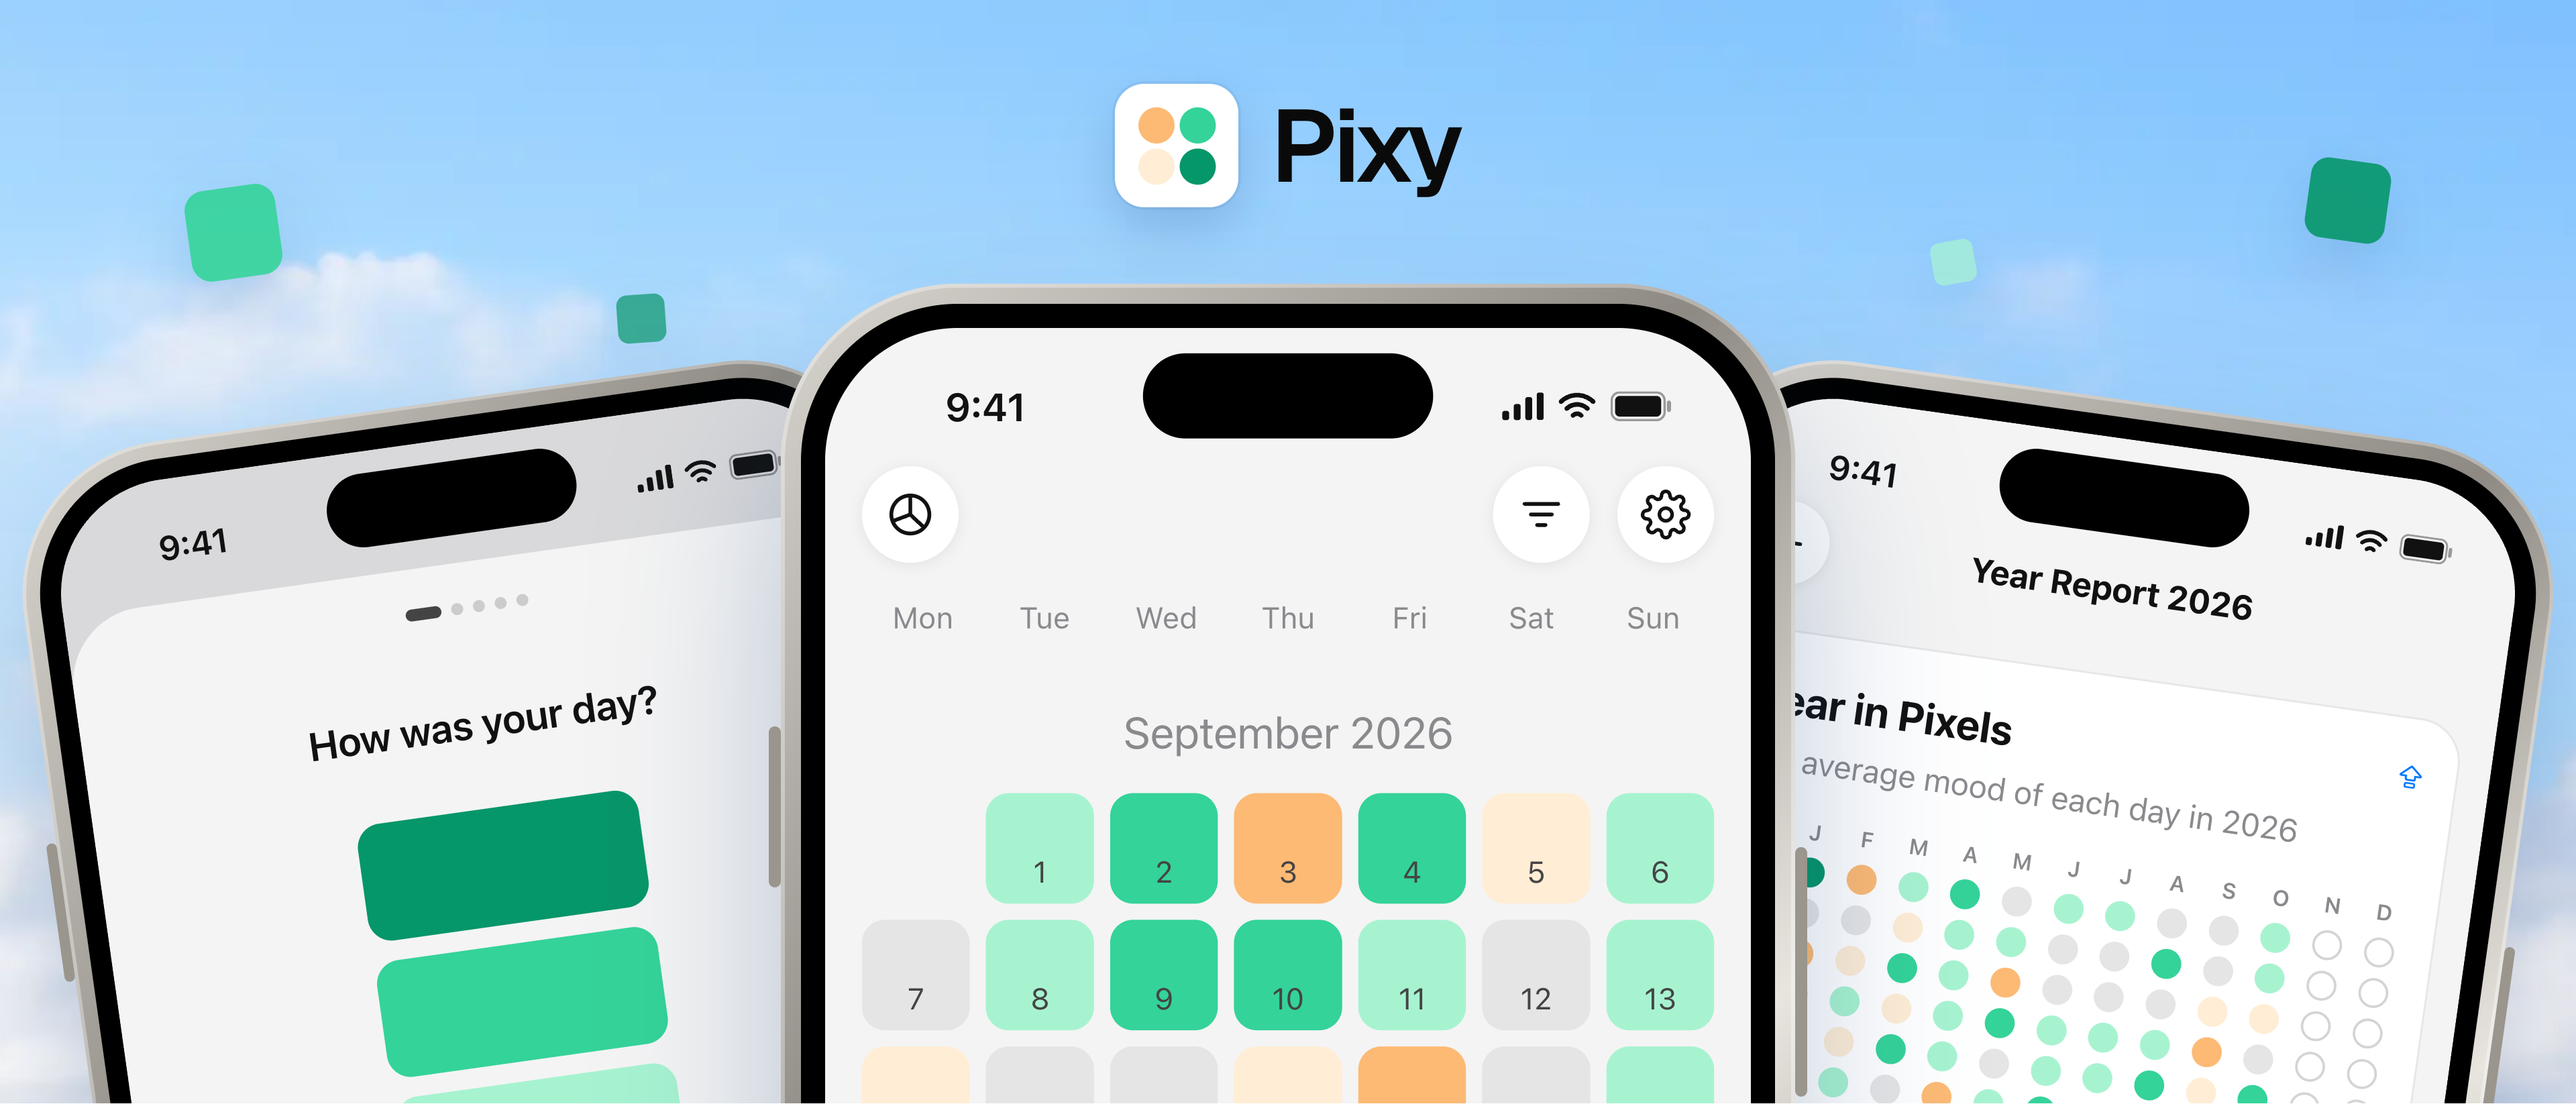
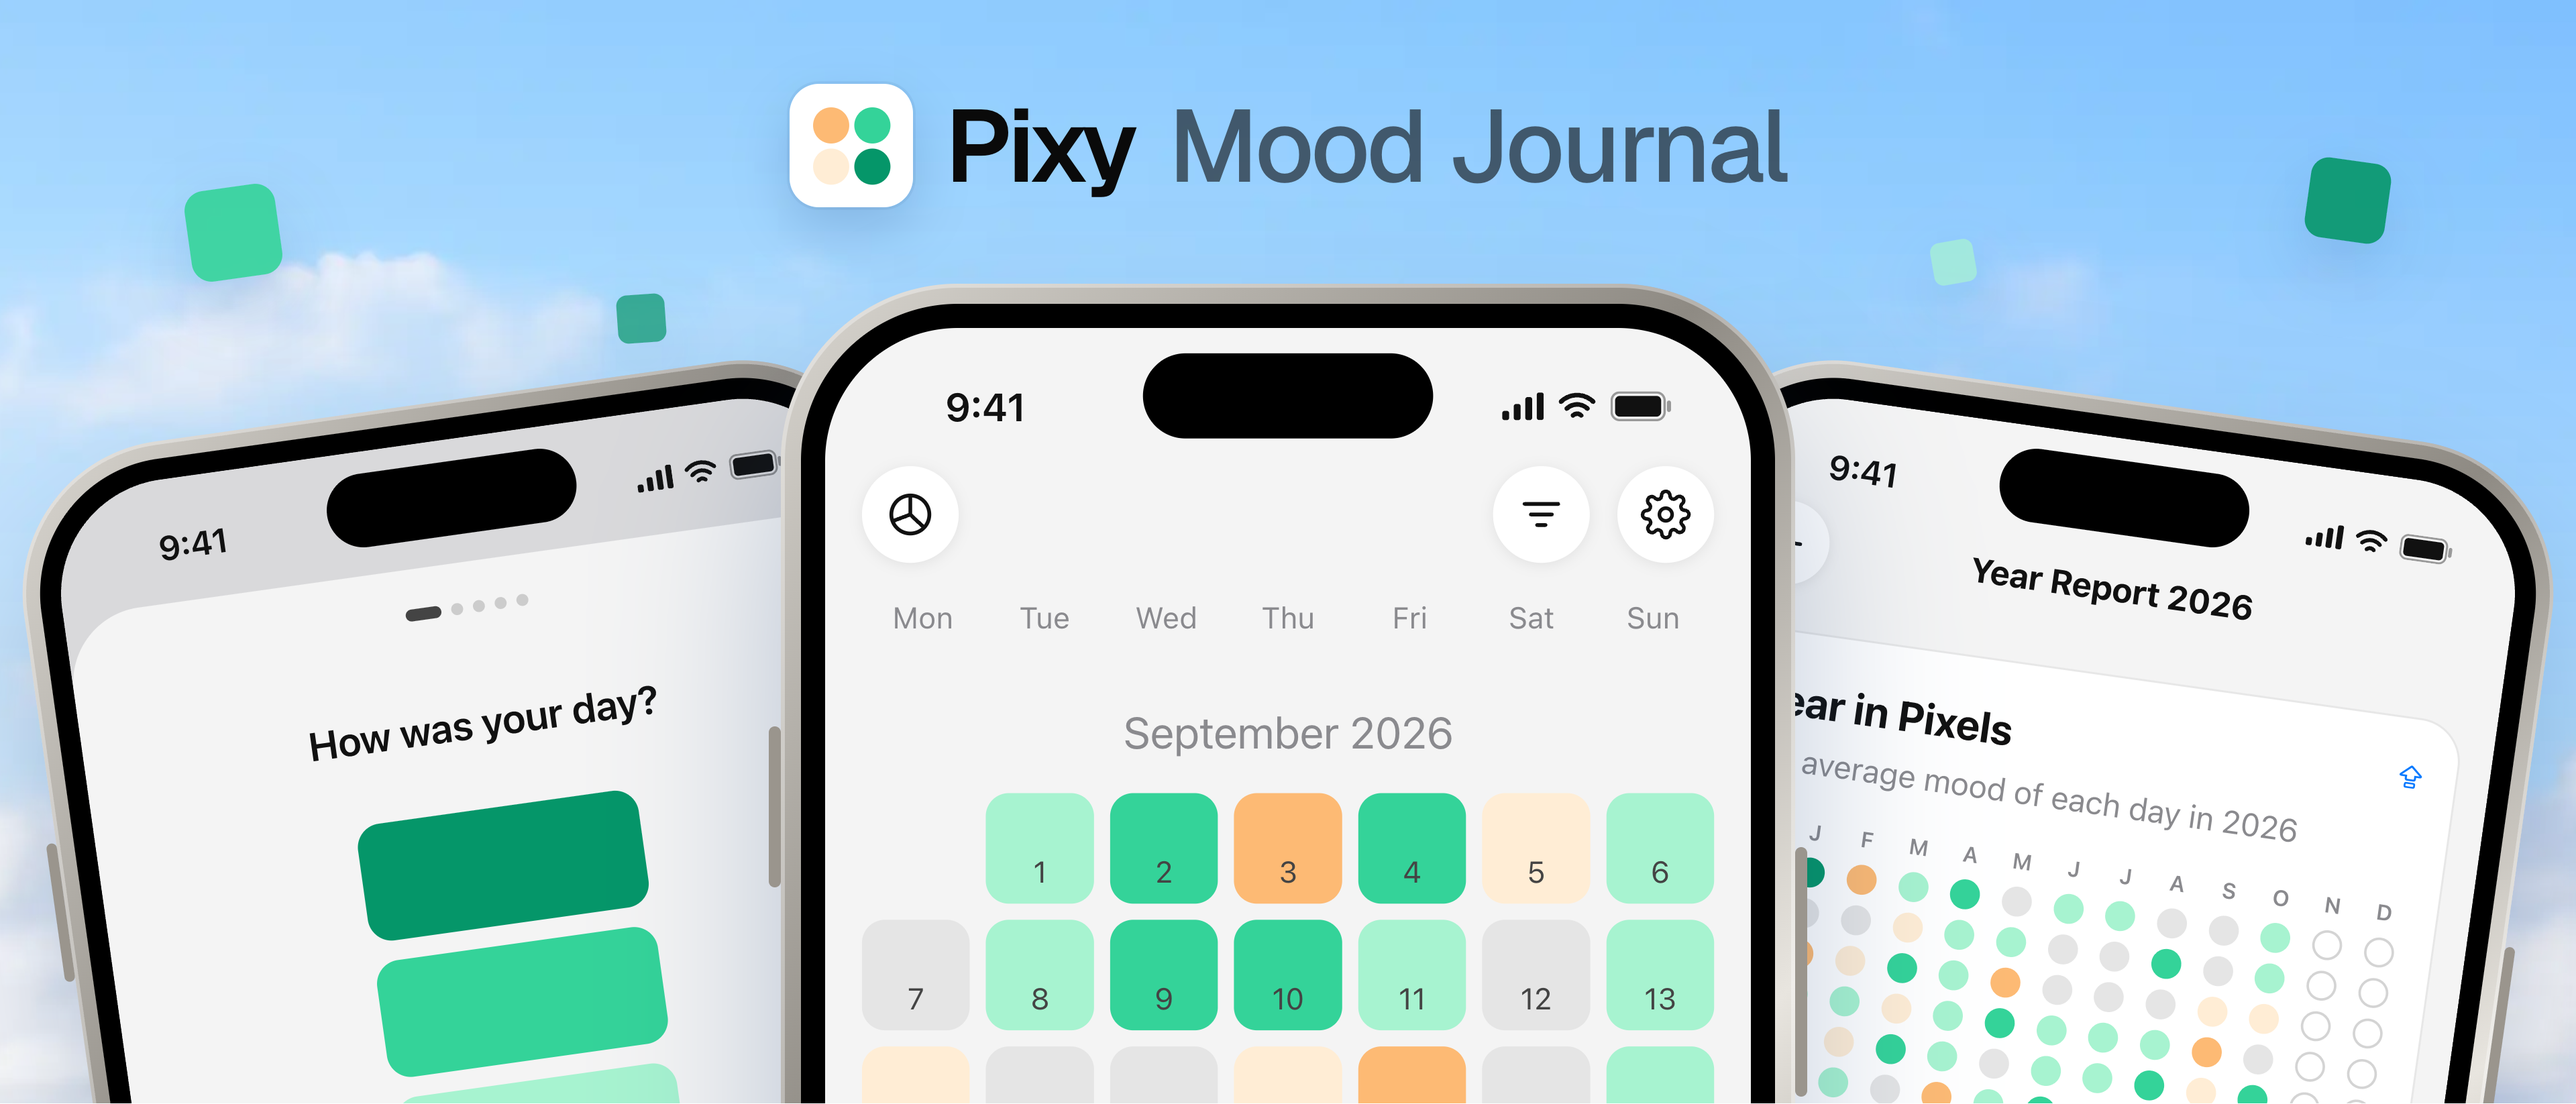
docs(store-screenshots): add Pixy Mood Journal lockup to store creatives

Changed region(s): [[0.2812, 0.062, 0.7188, 0.2169]]

diff --git a/docs/store-screenshots/index.html b/docs/store-screenshots/index.html
@@ -154,6 +154,9 @@ radial-gradient(1.4px 1.4px at 18% 10%,#fff,transparent),radial-gradient(1px 1px
 .cv .brand{position:absolute;z-index:3;left:0;right:0;top:26px;display:flex;justify-content:center;align-items:center;gap:12px}
 .cv .brand svg{width:46px;height:46px;border-radius:11px;box-shadow:0 0 0 1px rgba(10,40,90,.06),0 8px 20px rgba(20,60,120,.2)}
 .cv .brand b{font-size:38px;font-weight:600;letter-spacing:-.03em}
+.cv .brand span{font-size:38px;font-weight:500;letter-spacing:-.03em;color:rgba(10,10,10,.6)}
+.cv h4.ih{display:flex;justify-content:center;align-items:center;gap:18px}.cv h4.ih svg{width:66px;height:66px;border-radius:16px;box-shadow:0 0 0 1px rgba(10,40,90,.06),0 8px 20px rgba(20,60,120,.2)}
+.cv .brand.fb{left:52px;right:auto;top:84px;justify-content:flex-start;gap:10px}.cv .brand.fb svg{width:40px;height:40px;border-radius:10px}.cv .brand.fb b,.cv .brand.fb span{font-size:30px}
 .px{position:absolute;border-radius:22%;box-shadow:0 10px 24px rgba(20,60,120,.18)}
 </style></head><body><main>
 <h1>Pixy store screenshots</h1>
@@ -212,27 +215,27 @@ radial-gradient(1.4px 1.4px at 18% 10%,#fff,transparent),radial-gradient(1px 1px
 <div class="cvset">
  <div><div class="cv header" data-cv="header">
   <i class="px" style="left:70px;top:70px;width:34px;height:34px;background:#34d399;opacity:0.9;transform:rotate(-8deg)"></i><i class="px" style="left:150px;top:210px;width:22px;height:22px;background:#a7f3d0;opacity:0.85;transform:rotate(6deg)"></i><i class="px" style="left:40px;top:270px;width:26px;height:26px;background:#fdba74;opacity:0.8;transform:rotate(10deg)"></i><i class="px" style="left:230px;top:110px;width:18px;height:18px;background:#059669;opacity:0.7;transform:rotate(-4deg)"></i><i class="px" style="left:860px;top:60px;width:30px;height:30px;background:#059669;opacity:0.9;transform:rotate(8deg)"></i><i class="px" style="left:790px;top:200px;width:24px;height:24px;background:#ffedd5;opacity:0.85;transform:rotate(-6deg)"></i><i class="px" style="left:890px;top:280px;width:20px;height:20px;background:#34d399;opacity:0.8;transform:rotate(4deg)"></i><i class="px" style="left:720px;top:90px;width:16px;height:16px;background:#a7f3d0;opacity:0.7;transform:rotate(-10deg)"></i>
-  <div class="brand"><svg viewBox="0 0 1024 1024"><rect width="1024" height="1024" fill="#fff"/><circle cx="345" cy="345" r="150" fill="#fdba74"/><circle cx="687" cy="345" r="150" fill="#34d399"/><circle cx="345" cy="687" r="150" fill="#ffedd5"/><circle cx="687" cy="687" r="150" fill="#059669"/></svg><b>Pixy</b></div>
+  <div class="brand"><svg viewBox="0 0 1024 1024"><rect width="1024" height="1024" fill="#fff"/><circle cx="345" cy="345" r="150" fill="#fdba74"/><circle cx="687" cy="345" r="150" fill="#34d399"/><circle cx="345" cy="687" r="150" fill="#ffedd5"/><circle cx="687" cy="687" r="150" fill="#059669"/></svg><b>Pixy</b><span>Mood Journal</span></div>
   <div class="phA" style="top:150px;left:17%;transform:translateX(-50%) rotate(-8deg) scale(1.3);z-index:1;"><div class="bz"><div class="sc" data-app="mood" data-args=''></div></div></div>
   <div class="phA" style="top:150px;left:83%;transform:translateX(-50%) rotate(8deg) scale(1.3);z-index:1;"><div class="bz"><div class="sc" data-app="year" data-args=''></div></div></div>
   <div class="phA" style="top:106px;transform:translateX(-50%) scale(1.5);z-index:2;"><div class="bz"><div class="sc" data-app="calendar" data-args=''></div></div></div>
- </div><div class="lab"><b>Product page header</b> 21:9, 3840x1646. Pixy icon + name on top, phones pushed down. Calendar in front, mood logger and year in pixels behind, phones run off the bottom edge.</div></div>
+ </div><div class="lab"><b>Product page header</b> 21:9, 3840x1646. Pixy icon + "Pixy Mood Journal" on top, phones pushed down. Calendar in front, mood logger and year in pixels behind, phones run off the bottom edge.</div></div>
  <div><div class="cv search" data-cv="search">
-  <h4 style="top:30px;font-size:68px">Mood Journal</h4>
-  <div class="sub" style="top:112px;font-size:28px;font-weight:500">Log how you feel. See what shapes it.</div>
-  <div class="phA" style="top:214px;left:17%;transform:translateX(-50%) rotate(-8deg) scale(1.3);z-index:1;"><div class="bz"><div class="sc" data-app="mood" data-args=''></div></div></div>
-  <div class="phA" style="top:214px;left:83%;transform:translateX(-50%) rotate(8deg) scale(1.3);z-index:1;"><div class="bz"><div class="sc" data-app="emotions" data-args=''></div></div></div>
-  <div class="phA" style="top:176px;transform:translateX(-50%) scale(1.5);z-index:2;"><div class="bz"><div class="sc" data-app="calendar" data-args=''></div></div></div>
+  <h4 class="ih" style="top:30px;font-size:68px"><svg viewBox="0 0 1024 1024"><rect width="1024" height="1024" fill="#fff"/><circle cx="345" cy="345" r="150" fill="#fdba74"/><circle cx="687" cy="345" r="150" fill="#34d399"/><circle cx="345" cy="687" r="150" fill="#ffedd5"/><circle cx="687" cy="687" r="150" fill="#059669"/></svg>Mood Journal</h4>
+  <div class="sub" style="top:106px;font-size:28px;font-weight:500">Log how you feel. See what shapes it.</div>
+  <div class="phA" style="top:232px;left:17%;transform:translateX(-50%) rotate(-8deg) scale(1.3);z-index:1;"><div class="bz"><div class="sc" data-app="mood" data-args=''></div></div></div>
+  <div class="phA" style="top:232px;left:83%;transform:translateX(-50%) rotate(8deg) scale(1.3);z-index:1;"><div class="bz"><div class="sc" data-app="emotions" data-args=''></div></div></div>
+  <div class="phA" style="top:194px;transform:translateX(-50%) scale(1.5);z-index:2;"><div class="bz"><div class="sc" data-app="calendar" data-args=''></div></div></div>
  </div><div class="lab"><b>Search results</b> 3:2, 3840x2560. Replaces the first 3 screenshots in search, shown small: big type, big phones (calendar front, mood logger and emotions behind).</div></div>
  <div><div class="cv feature android-set" data-cv="feature">
   <i class="px" style="left:40px;top:40px;width:26px;height:26px;background:#34d399;opacity:0.85;transform:rotate(-8deg)"></i><i class="px" style="left:470px;top:60px;width:18px;height:18px;background:#a7f3d0;opacity:0.8;transform:rotate(6deg)"></i><i class="px" style="left:60px;top:420px;width:22px;height:22px;background:#fdba74;opacity:0.8;transform:rotate(10deg)"></i><i class="px" style="left:420px;top:400px;width:16px;height:16px;background:#059669;opacity:0.75;transform:rotate(-4deg)"></i>
-  <div class="fk">Mood Journal</div>
+  <div class="brand fb"><svg viewBox="0 0 1024 1024"><rect width="1024" height="1024" fill="#fff"/><circle cx="345" cy="345" r="150" fill="#fdba74"/><circle cx="687" cy="345" r="150" fill="#34d399"/><circle cx="345" cy="687" r="150" fill="#ffedd5"/><circle cx="687" cy="687" r="150" fill="#059669"/></svg><b>Pixy</b><span>Mood Journal</span></div>
   <h4 class="fh">Understand what makes you feel that way.</h4>
   <div class="phA" style="top:40px;left:auto;right:140px;transform:rotate(-6deg) scale(1.35);z-index:2;"><div class="bz"><div class="sc" data-app="calendar" data-args=''></div></div></div>
   <div class="phA" style="top:96px;left:auto;right:-190px;transform:rotate(7deg) scale(1.25);z-index:1;"><div class="bz"><div class="sc" data-app="year" data-args=''></div></div></div>
- </div><div class="lab"><b>Google Play feature graphic</b> 1024x500 (rendered 2x, downsampled). Mood Journal kicker + proof headline left, calendar and year in pixels right.</div></div>
+ </div><div class="lab"><b>Google Play feature graphic</b> 1024x500 (rendered 2x, downsampled). Pixy Mood Journal lockup + proof headline left, calendar and year in pixels right.</div></div>
 </div></main>
-<script src="https://unpkg.com/lucide@0.460.0/dist/umd/lucide.min.js"></script><script src="emotion-icons.js?v=1792509715"></script><script src="appscreens.js?v=1792509715"></script><script>
+<script src="https://unpkg.com/lucide@0.460.0/dist/umd/lucide.min.js"></script><script src="emotion-icons.js?v=1792510107"></script><script src="appscreens.js?v=1792510107"></script><script>
 document.head.insertAdjacentHTML('beforeend','<style>'+APP.css+'</style>');
 document.querySelectorAll('[data-app]').forEach(el=>{window.PIXY_OS=el.closest('.android-set')?'android':'ios';const a=(el.dataset.args||'').split(',').filter(Boolean);el.innerHTML=APP.render(el.dataset.app,a[0]||undefined,a[1]==='dark')});window.PIXY_OS='ios';
 document.querySelectorAll('[data-card]').forEach(el=>el.innerHTML='<div class="ps">'+APP.card(el.dataset.card)+'</div>');

diff --git a/docs/store-screenshots/build.py b/docs/store-screenshots/build.py
@@ -282,6 +282,9 @@ CREATIVE_CSS = r"""
 .cv .brand{position:absolute;z-index:3;left:0;right:0;top:26px;display:flex;justify-content:center;align-items:center;gap:12px}
 .cv .brand svg{width:46px;height:46px;border-radius:11px;box-shadow:0 0 0 1px rgba(10,40,90,.06),0 8px 20px rgba(20,60,120,.2)}
 .cv .brand b{font-size:38px;font-weight:600;letter-spacing:-.03em}
+.cv .brand span{font-size:38px;font-weight:500;letter-spacing:-.03em;color:rgba(10,10,10,.6)}
+.cv h4.ih{display:flex;justify-content:center;align-items:center;gap:18px}.cv h4.ih svg{width:66px;height:66px;border-radius:16px;box-shadow:0 0 0 1px rgba(10,40,90,.06),0 8px 20px rgba(20,60,120,.2)}
+.cv .brand.fb{left:52px;right:auto;top:84px;justify-content:flex-start;gap:10px}.cv .brand.fb svg{width:40px;height:40px;border-radius:10px}.cv .brand.fb b,.cv .brand.fb span{font-size:30px}
 .px{position:absolute;border-radius:22%;box-shadow:0 10px 24px rgba(20,60,120,.18)}
 """
 def pixels(cells):
@@ -297,25 +300,25 @@ CREATIVE = f"""
 <div class="cvset">
  <div><div class="cv header" data-cv="header">
   {pixels(PX)}
-  <div class="brand">{PIXY_ICON}<b>Pixy</b></div>
+  <div class="brand">{PIXY_ICON}<b>Pixy</b><span>Mood Journal</span></div>
   {phone('mood', 150, 'left:17%;transform:translateX(-50%) rotate(-8deg) scale(1.3);z-index:1;')}
   {phone('year', 150, 'left:83%;transform:translateX(-50%) rotate(8deg) scale(1.3);z-index:1;')}
   {phone('calendar', 106, 'transform:translateX(-50%) scale(1.5);z-index:2;')}
- </div><div class="lab"><b>Product page header</b> 21:9, 3840x1646. Pixy icon + name on top, phones pushed down. Calendar in front, mood logger and year in pixels behind, phones run off the bottom edge.</div></div>
+ </div><div class="lab"><b>Product page header</b> 21:9, 3840x1646. Pixy icon + "Pixy Mood Journal" on top, phones pushed down. Calendar in front, mood logger and year in pixels behind, phones run off the bottom edge.</div></div>
  <div><div class="cv search" data-cv="search">
-  <h4 style="top:30px;font-size:68px">Mood Journal</h4>
-  <div class="sub" style="top:112px;font-size:28px;font-weight:500">Log how you feel. See what shapes it.</div>
-  {phone('mood', 214, 'left:17%;transform:translateX(-50%) rotate(-8deg) scale(1.3);z-index:1;')}
-  {phone('emotions', 214, 'left:83%;transform:translateX(-50%) rotate(8deg) scale(1.3);z-index:1;')}
-  {phone('calendar', 176, 'transform:translateX(-50%) scale(1.5);z-index:2;')}
+  <h4 class="ih" style="top:30px;font-size:68px">{PIXY_ICON}Mood Journal</h4>
+  <div class="sub" style="top:106px;font-size:28px;font-weight:500">Log how you feel. See what shapes it.</div>
+  {phone('mood', 232, 'left:17%;transform:translateX(-50%) rotate(-8deg) scale(1.3);z-index:1;')}
+  {phone('emotions', 232, 'left:83%;transform:translateX(-50%) rotate(8deg) scale(1.3);z-index:1;')}
+  {phone('calendar', 194, 'transform:translateX(-50%) scale(1.5);z-index:2;')}
  </div><div class="lab"><b>Search results</b> 3:2, 3840x2560. Replaces the first 3 screenshots in search, shown small: big type, big phones (calendar front, mood logger and emotions behind).</div></div>
  <div><div class="cv feature android-set" data-cv="feature">
   {pixels(FPX)}
-  <div class="fk">Mood Journal</div>
+  <div class="brand fb">{PIXY_ICON}<b>Pixy</b><span>Mood Journal</span></div>
   <h4 class="fh">Understand what makes you feel that way.</h4>
   {phone('calendar', 40, 'left:auto;right:140px;transform:rotate(-6deg) scale(1.35);z-index:2;')}
   {phone('year', 96, 'left:auto;right:-190px;transform:rotate(7deg) scale(1.25);z-index:1;')}
- </div><div class="lab"><b>Google Play feature graphic</b> 1024x500 (rendered 2x, downsampled). Mood Journal kicker + proof headline left, calendar and year in pixels right.</div></div>
+ </div><div class="lab"><b>Google Play feature graphic</b> 1024x500 (rendered 2x, downsampled). Pixy Mood Journal lockup + proof headline left, calendar and year in pixels right.</div></div>
 </div>"""
 body = body.replace('Google Play User', 'Pixy user')
 
